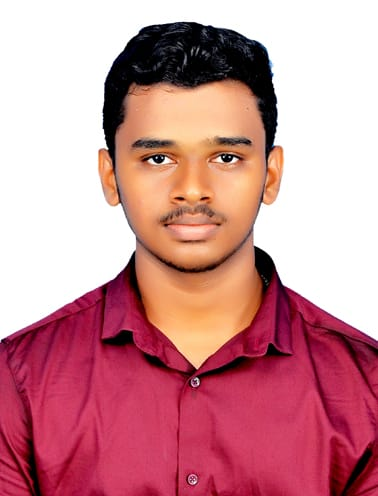
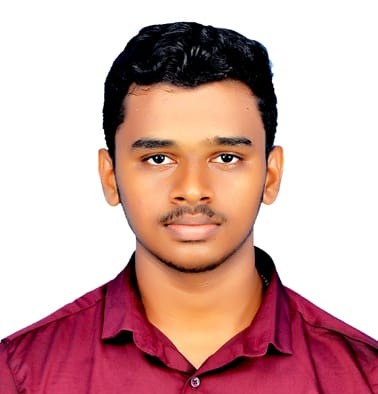
Updated portfolio

diff --git a/index.html b/index.html
@@ -185,7 +185,7 @@
 
       <div class="about-text" data-aos="fade-left">
         <p>
-          I'm a graduate of Computer Science and Engineering (AI &amp; ML) at Annamalai University with a habit
+          I'm a final-year Computer Science (AI &amp; ML) student at Annamalai University with a habit
           of turning coursework into hardware. My final-year project, <strong>BuildScan Rover</strong>,
           fuses robotics, IoT, computer vision and deep learning into an autonomous inspection robot —
           the work was accepted and published at <strong>ICICEA'26</strong> in April 2026.
@@ -424,7 +424,7 @@
 
       <article class="project-card tilt glass" data-aos="fade-up">
         <div class="project-media project-media-photo">
-          <img src="assets/buildscan-rover.png" alt="BuildScan Rover hardware">
+          <img loading="lazy" src="assets/buildscan-rover.jpg" alt="BuildScan Rover hardware">
           <div class="project-tag">Published · ICICEA'26</div>
         </div>
         <div class="project-body">
@@ -442,7 +442,7 @@
 
       <article class="project-card tilt glass" data-aos="fade-up" data-aos-delay="100">
         <div class="project-media project-media-photo">
-          <img src="assets/lexai-homepage.png" alt="LexAI homepage screenshot">
+          <img loading="lazy" src="assets/lexai-homepage.jpg" alt="LexAI homepage screenshot">
           <div class="project-tag">RAG · LLM</div>
         </div>
         <div class="project-body">
@@ -459,7 +459,7 @@
 
       <article class="project-card tilt glass" data-aos="fade-up" data-aos-delay="200">
         <div class="project-media project-media-photo">
-          <img src="assets/result-awareness-system.png" alt="Result Awareness System homepage screenshot">
+          <img loading="lazy" src="assets/result-awareness-system.jpg" alt="Result Awareness System homepage screenshot">
           <div class="project-tag">2,400+ course records</div>
         </div>
         <div class="project-body">
@@ -476,7 +476,7 @@
 
       <article class="project-card tilt glass" data-aos="fade-up" data-aos-delay="300">
         <div class="project-media project-media-photo">
-          <img src="assets/covid-dashboard.png" alt="COVID-19 AI Forecast Dashboard screenshot">
+          <img loading="lazy" src="assets/covid-dashboard.jpg" alt="COVID-19 AI Forecast Dashboard screenshot">
           <div class="project-tag">Forecasting</div>
         </div>
         <div class="project-body">
@@ -487,7 +487,7 @@
           </div>
           <div class="project-links">
             <a href="https://lnkd.in/gyuPgwNx" target="_blank" class="btn btn-ghost btn-sm magnetic"><i class="fa-brands fa-github"></i> Code</a>
-            <a href="https://covid-forecast-dashboard.streamlit.app/" target="_blank" class="btn btn-primary btn-sm magnetic"><i class="fa-solid fa-arrow-up-right-from-square"></i> Live Dashboard</a>
+            <a href="https://lnkd.in/gUnizBhZ" target="_blank" class="btn btn-primary btn-sm magnetic"><i class="fa-solid fa-arrow-up-right-from-square"></i> Live Dashboard</a>
           </div>
         </div>
       </article>
@@ -554,18 +554,30 @@
 
     <div class="snap-grid" data-aos="fade-up">
       <div class="snap-item lightbox-trigger span-2">
-        <img src="assets/karthikeyan-fullbody.jpg" data-full="assets/karthikeyan-fullbody.jpg" alt="Karthikeyan Selvamani, formal outdoor portrait">
+        <img loading="lazy" src="assets/karthikeyan-fullbody.jpg" data-full="assets/karthikeyan-fullbody.jpg" alt="Karthikeyan Selvamani, formal outdoor portrait">
       </div>
       <div class="snap-item lightbox-trigger">
-        <img src="assets/karthikeyan-portrait-stylized.png" data-full="assets/karthikeyan-portrait-stylized.png" alt="Karthikeyan Selvamani, portrait">
+        <img loading="lazy" src="assets/karthikeyan-portrait-stylized.jpg" data-full="assets/karthikeyan-portrait-stylized.jpg" alt="Karthikeyan Selvamani, portrait">
       </div>
       <div class="snap-item lightbox-trigger cert">
-        <img src="assets/certs-tech.jpg" data-full="assets/certs-tech.jpg" alt="Certificates wall — technical certifications">
+        <img loading="lazy" src="assets/certs-tech.jpg" data-full="assets/certs-tech.jpg" alt="Certificates wall — technical certifications">
         <span class="snap-caption">Certifications wall</span>
       </div>
       <div class="snap-item lightbox-trigger cert span-2">
-        <img src="assets/certs-general.jpg" data-full="assets/certs-general.jpg" alt="Certificates and medals collection">
+        <img loading="lazy" src="assets/certs-general.jpg" data-full="assets/certs-general.jpg" alt="Certificates and medals collection">
         <span class="snap-caption">Certificates &amp; medals</span>
+      </div>
+      <div class="snap-item lightbox-trigger span-2">
+        <img loading="lazy" src="assets/ieee-ict-quiz-au.jpg" data-full="assets/ieee-ict-quiz-au.jpg" alt="IEEE CS Madras Mega ICT Quiz, Annamalai University">
+        <span class="snap-caption">IEEE CS Madras ICT Quiz — Zonal Orals</span>
+      </div>
+      <div class="snap-item lightbox-trigger">
+        <img loading="lazy" src="assets/honored-dean-iot-workshop.jpg" data-full="assets/honored-dean-iot-workshop.jpg" alt="Honored by the Dean, FEAT, at the IoT workshop">
+        <span class="snap-caption">Honored by the Dean, FEAT</span>
+      </div>
+      <div class="snap-item lightbox-trigger">
+        <img loading="lazy" src="assets/tgps-nem-meet.jpg" data-full="assets/tgps-nem-meet.jpg" alt="Meeting with the MD, TGPS, at the NEM members event">
+        <span class="snap-caption">TGPS NEM Members Meet</span>
       </div>
     </div>
   </div>
